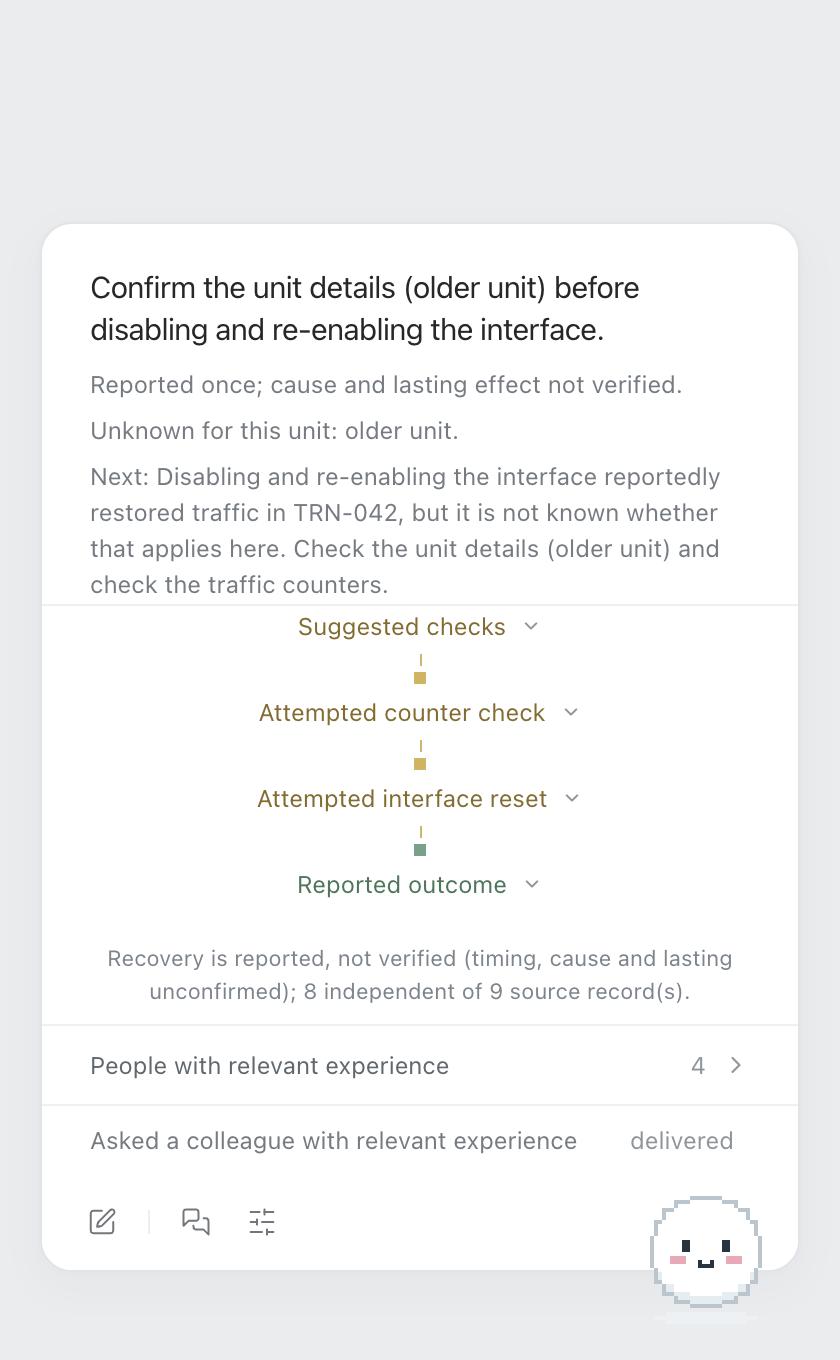
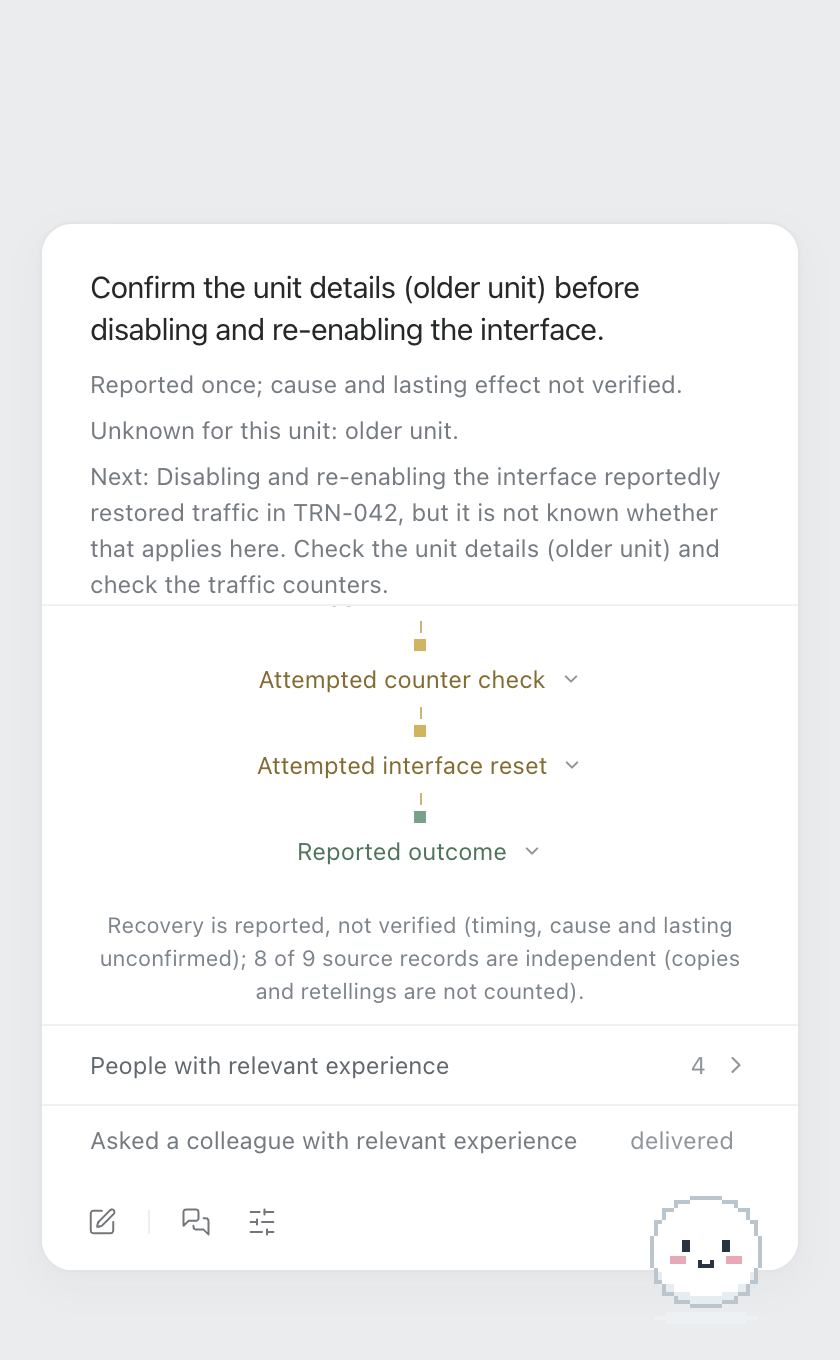
run: final report numbers after the review fixes; final real-service captures

Changed region(s): [[0.1238, 0.4632, 0.8976, 0.7412], [0.4024, 0.4324, 0.4952, 0.4632], [0.5262, 0.4324, 0.5571, 0.4632]]

diff --git a/docs/runs/2026-11-07-overnight/REPORT.md b/docs/runs/2026-11-07-overnight/REPORT.md
@@ -17,7 +17,7 @@
 7. **API/MCP.** 25 HTTP routes and 8 MCP tools (`kt_investigate`, `kt_get_context`, `kt_request_clarification`, `kt_clarification_status`, `kt_cancel_clarification`, `kt_record_observation`, `kt_record_outcome`, `kt_find_people`) over the same engine, with stable decision/trace ids, identical permissions and question limits for human and agent callers (tested over HTTP and over a real stdio MCP child).
 8. **Desktop ↔ service.** Every UI action is a service event: send → `POST /investigate` (idempotent id), answer/defer/dismiss/undo/cancel, observations, outcomes, settings, demo reset, directory-backed identity ("You" in Settings). Points are off by default, deduplicated per contribution, credited equally for a useful No, never read by evidence or selection.
 
-**Tests:** 233 application tests + 77 benchmark/experiment tests pass; typecheck clean. All of it is on branch `run/2026-11-07-overnight` in small commits; `main` is untouched; nothing was pushed.
+**Tests:** 248 application tests + 78 benchmark/experiment tests pass; typecheck clean. An independent Opus integration review reproduced the setup, the HTTP and MCP paths, an access audit across every endpoint (zero private evidence reaching outsiders) and the desktop walkthrough; its three major findings were fixed afterwards (private-channel members now see their own channel; the parser keeps "no traffic" and equipment models; an answered question survives re-sending the same text). All of it is on branch `run/2026-11-07-overnight` in small commits; `main` is untouched; nothing was pushed.
 
 ## 2. How to launch
 
@@ -48,7 +48,7 @@ All on synthetic scenario families (10 families, 30 incoming problems; 2 demo / 
 | Usefulness classifier | Hashed logistic regression trained on train families (local, pure TypeScript) | Validation accuracy 26/32 vs majority 25/32: predicts almost everything useful. | Saved as an artifact; **not** wired into the app. |
 | E08 / E09 / E10 | Not run | No torch installed; no multi-step simulator validated; no preference stream. | — |
 
-**What the results do not show.** No real engineer benefit (U04): people are simulated. Denominators are tiny (one validation problem moves a rate by 0.17). Validation was touched once by extractor tuning (two words, removed; see R23). The test split was opened once, before tuning. Recommendation **kind** accuracy stayed at or below the majority-class baseline on every split (train 3/12 vs 6/12 majority) even after extraction improved: the assessor/applicability rules, not extraction, are now the binding constraint. Questions asked fell to 2/24 across the families; the question loop is exercised and verified on the demo data and in tests, but the synthetic families rarely trigger it, so E03/E05/E06 are uninformative.
+**What the results do not show.** No real engineer benefit (U04): people are simulated. Denominators are tiny (one validation problem moves a rate by 0.17). Validation was touched once by extractor tuning (two words, removed; see R23). The test split was opened once, before tuning. Recommendation **kind** accuracy stayed at or below the majority-class baseline on every split (train 3/12 vs 6/12 majority) even after extraction improved: the assessor/applicability rules, not extraction, are now the binding constraint. Questions asked are 4/24 across the families; the question loop is exercised and verified on the demo data and in tests, but the synthetic families rarely trigger it, so E03/E05/E06 are uninformative.
 
 ## 4. How well it works against our metrics
 
@@ -57,9 +57,9 @@ Scores are from the final E00 run (`experiments/RESULTS.md`), on synthetic data;
 | Metric family (handoff §6) | Measured | Reading |
 | --- | --- | --- |
 | Knowledge accuracy | claim recall 0.48 / 0.68 / 0.64; precision 0.41 / 0.55 / 0.41; false merges 1/3, 0/7, 1/4; false splits 0; attempt performer errors 0 on train and validation | Good for a rules extractor built in one night; precision is the weak side (hypothesis fragments). Copies are never counted as independent. |
-| Resolution accuracy | false "solved" 0/2, 0/4, 0/3; outcome recall 2/4, 9/9, 3/4; case status accuracy 7/7 train, 4/4 validation | The system never calls a reported recovery verified; lasting needs a separate later report. |
+| Resolution accuracy | false "solved" 0/3, 0/6, 0/4; outcome recall 2/4, 9/9, 3/4; case status accuracy 7/7 train, 4/4 validation | The system never calls a reported recovery verified; lasting needs a separate later report. |
 | Recommendation quality and coverage | kind accuracy 1/6, 3/12, 3/6 (majority 3/6, 6/12, 4/6); false advice 0, 3/9, 1/5; eligible coverage 1/5, 6/9, 4/5 | Coverage improved a lot; kind choice is still weak and false advice on train rose with coverage. This is the next thing to work on. |
-| Question value and burden | questions per investigation 0, 2/12, 0; wrong recipient rests on 1 question; hard-rule violations 0 everywhere | Rules (budgets, cooldowns, access, duplicates, self) never violated. Value cannot be estimated from these counts. |
+| Question value and burden | questions per investigation 0/6, 4/12, 0/6; wrong recipient 1/2 on train (all four simulated answers were "unknown"); hard-rule violations 0 everywhere | Rules (budgets, cooldowns, access, duplicates, self) never violated. Value cannot be estimated from these counts. |
 | Calibration | not scored | No probabilistic targets were defined (U06); nothing is presented as a probability. |
 | Efficiency | mean latency per investigation 0.9–6 ms; whole experiment queue under 3 s on this Mac; no tokens, no API calls | Trivially cheap; the app feels instant. |
 | Hard constraints | access leak found by E00 and closed; one residual that is not system-detectable (e-mail without ACL, R25); duplicate delivery 0; budget violations 0 | Gates hold outside the learned selector. |
@@ -76,12 +76,14 @@ The challenge: capture silent, human-generated contextual metadata (expert knowl
 - **Feasibility.** One TypeScript codebase, one local process, SQLite, no cloud, no model calls, 310 passing tests, all deterministic; the whole experiment queue runs in seconds. Replacing a rules stage with a model is a provider interface away. **Strong.**
 - **Agent suitability.** The same engine is an MCP server with investigate / context / clarification / observation / outcome tools, stable ids and the same limits as humans; an agent cannot see restricted evidence or bypass question budgets (tested). Exposure is logged separately from adoption. **Strong at the interface level; no real agent used it yet.**
 
-Honest overall: the prototype demonstrates the whole loop on the organizer's example and on synthetic data, with evidence-backed, qualified answers and a pleasant, fast companion. It does not yet show that its recommendations are right more often than a trivial baseline on unseen synthetic incidents, and it shows nothing about real engineers.
+Honest overall (and confirmed by the independent review): the prototype demonstrates the whole loop on the organizer's example and on synthetic data, with evidence-backed, qualified answers and a pleasant, fast companion. It does not yet show that its recommendations are right more often than a trivial baseline on unseen synthetic incidents, and it shows nothing about real engineers.
 
 ## 6. Limitations that remain
 
 - Slack: **fixture-tested, awaiting authorization**. Export and live-payload mapping are tested on fixtures; no workspace was read, no app installed.
 - No authentication: callers assert their identity; loopback only. `GET /investigations/:id` and `GET /questions/:id` accept an optional principal (reviewer finding, left as a contract-level follow-up).
+- Re-importing an identical record cannot tighten its access scope (deterministic ids deduplicate it); reset or revise instead. Channel memberships are additive and never revoked by later imports; only the Slack adapter emits them.
+- The TRN-042 demo case needs the git-ignored organizer files under `private/`; a fresh clone gets the synthetic demo families and the dev fixture only.
 - Extraction is lexical rules; paraphrases outside the cue lexicons are missed; hypothesis precision is low; person identity is by normalized display name.
 - Windows not built or tested; tray icon verified in code, not in the real menu bar; click-through uses forwarded mouse moves (macOS behavior).
 - No sounds; points are a separate record with a switch and a subtle burst only.
